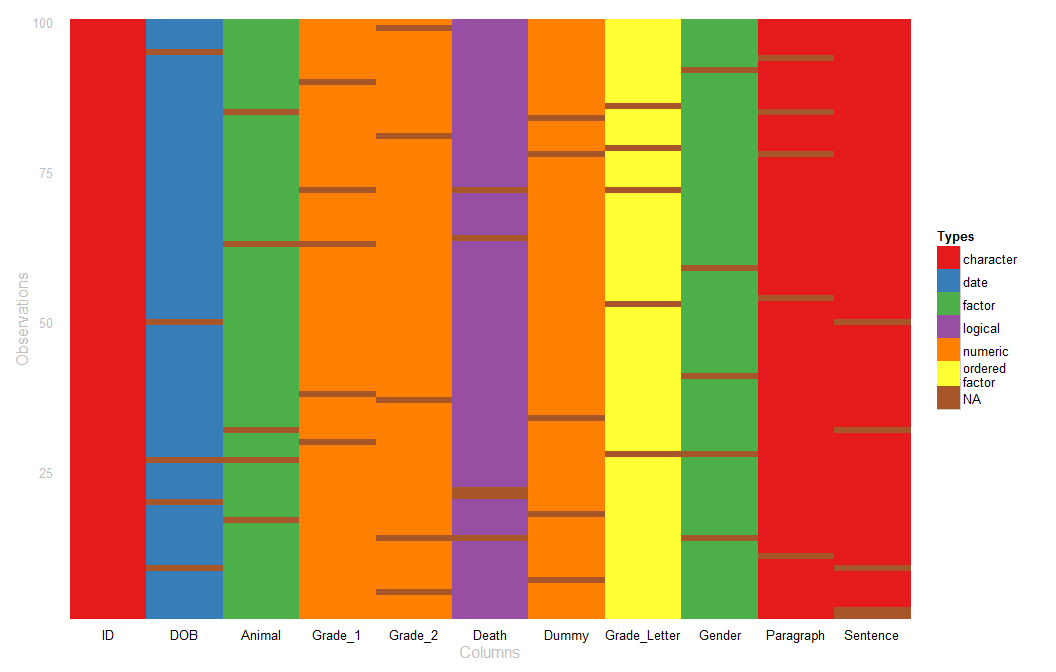
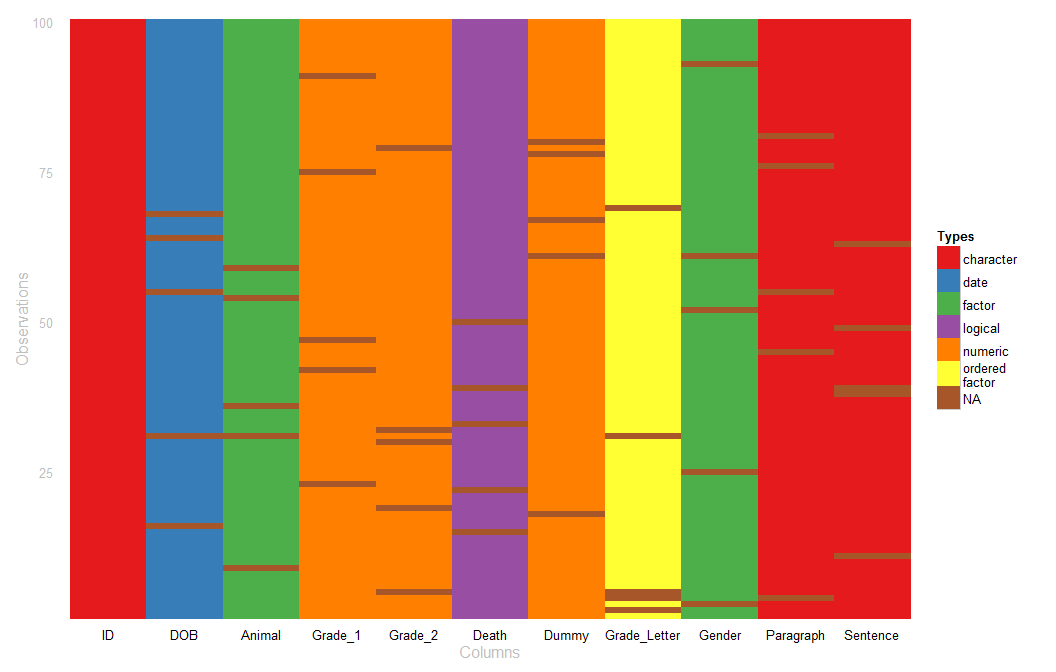
fixed error in README

diff --git a/README.md b/README.md
@@ -83,7 +83,8 @@ attribute. For example here we see the `race` variable function:
 
     race(n=10)
 
-    ##  [1] White Asian White White White White White White Black White
+    ##  [1] White     White     White     White     White     White     White    
+    ##  [8] Bi-Racial White     White    
     ## Levels: White Hispanic Black Asian Bi-Racial Native Other Hawaiian
 
     attributes(race(n=10))
@@ -112,13 +113,13 @@ variable functions but is set once in `r_data_frame`:
     ##        Race
     ## 1     White
     ## 2     White
-    ## 3    Native
-    ## 4     White
+    ## 3  Hispanic
+    ## 4     Black
     ## 5     White
     ## 6  Hispanic
-    ## 7     White
-    ## 8     Asian
-    ## 9     White
+    ## 7  Hispanic
+    ## 8     White
+    ## 9  Hispanic
     ## 10    White
     ## ..      ...
 
@@ -139,24 +140,24 @@ variable functions:
 
     ## Source: local data frame [500 x 8]
     ## 
-    ##     ID  Race Age    Sex     Hour  IQ Height  Died
-    ## 1  001 Black  29 Female 00:00:00 103     70  TRUE
-    ## 2  002 White  32   Male 00:00:00  91     64 FALSE
-    ## 3  003 White  26 Female 00:00:00 106     71  TRUE
-    ## 4  004 White  27   Male 00:00:00  81     74  TRUE
-    ## 5  005 Black  26 Female 00:00:00  97     67 FALSE
-    ## 6  006 White  26 Female 00:00:00  93     65 FALSE
-    ## 7  007 White  34 Female 00:00:00 109     66 FALSE
-    ## 8  008 White  32   Male 00:00:00  97     64 FALSE
-    ## 9  009 White  25 Female 00:00:00  90     74  TRUE
-    ## 10 010 White  35 Female 00:00:00 111     69 FALSE
-    ## .. ...   ... ...    ...      ... ...    ...   ...
+    ##     ID      Race Age    Sex     Hour  IQ Height  Died
+    ## 1  001     Asian  34 Female 00:00:00 102     67  TRUE
+    ## 2  002  Hispanic  23 Female 00:00:00 107     65 FALSE
+    ## 3  003     White  23   Male 00:00:00  99     71  TRUE
+    ## 4  004  Hispanic  27   Male 00:00:00  99     66 FALSE
+    ## 5  005     White  27 Female 00:00:00  86     67  TRUE
+    ## 6  006 Bi-Racial  21   Male 00:00:00  96     73 FALSE
+    ## 7  007     White  22 Female 00:00:00  80     71 FALSE
+    ## 8  008     White  23 Female 00:00:00 107     71  TRUE
+    ## 9  009  Hispanic  34 Female 00:00:00  92     67  TRUE
+    ## 10 010     White  30   Male 00:00:00 107     68 FALSE
+    ## .. ...       ... ...    ...      ... ...    ...   ...
 
 There are 68 **wakefield** based variable functions to chose from,
 spanning **R**'s various data types (see `?variables` for details).
 
 <!-- html table generated in R 3.2.0 by xtable 1.7-4 package -->
-<!-- Sat May 09 10:46:57 2015 -->
+<!-- Sun May 31 19:20:35 2015 -->
 <table>
 <tr>
 <td>
@@ -400,7 +401,7 @@ speed_kph
 </p>
 However, the user may also pass their own vector producing functions or
 vectors to `r_data_frame`. Those with an `n` argument can be set by
-`r_data_table`:
+`r_data_frame`:
 
     r_data_frame(
         n = 500,
@@ -418,18 +419,18 @@ vectors to `r_data_frame`. Those with an `n` argument can be set by
 
     ## Source: local data frame [500 x 10]
     ## 
-    ##     ID      Scoring Smoker  Race Age    Sex     Hour  IQ Height  Died
-    ## 1  001 -0.364005943  FALSE White  27 Female 00:00:00 121     64 FALSE
-    ## 2  002 -0.464942023   TRUE White  25   Male 00:00:00 111     68 FALSE
-    ## 3  003  1.241043122  FALSE White  22   Male 00:00:00 102     77 FALSE
-    ## 4  004  1.126744406   TRUE White  26   Male 00:00:00 111     70  TRUE
-    ## 5  005  0.002319571   TRUE Black  25   Male 00:00:00  90     73  TRUE
-    ## 6  006  0.786658401  FALSE White  33   Male 00:00:00 116     69 FALSE
-    ## 7  007  0.344566578   TRUE White  22   Male 00:00:00 103     70 FALSE
-    ## 8  008 -0.936047763   TRUE White  26 Female 00:30:00 107     67 FALSE
-    ## 9  009 -1.093695917   TRUE White  31   Male 00:30:00  96     70 FALSE
-    ## 10 010 -1.183484566  FALSE White  35   Male 00:30:00  82     67  TRUE
-    ## .. ...          ...    ...   ... ...    ...      ... ...    ...   ...
+    ##     ID     Scoring Smoker     Race Age    Sex     Hour  IQ Height  Died
+    ## 1  001  1.17592556  FALSE    White  24 Female 00:00:00  90     65  TRUE
+    ## 2  002 -0.30643701  FALSE    White  27 Female 00:00:00 102     72  TRUE
+    ## 3  003 -0.02783137   TRUE    White  28   Male 00:00:00  99     58  TRUE
+    ## 4  004  0.57867991   TRUE    White  20   Male 00:00:00 104     73  TRUE
+    ## 5  005 -0.19702705  FALSE    White  26   Male 00:00:00  96     68  TRUE
+    ## 6  006 -1.24147959  FALSE    White  29   Male 00:00:00 101     66  TRUE
+    ## 7  007  0.13607452   TRUE    White  33   Male 00:00:00  94     73 FALSE
+    ## 8  008 -0.09871101  FALSE    Black  21   Male 00:00:00 114     68  TRUE
+    ## 9  009 -0.88559545  FALSE    White  35 Female 00:00:00 114     61  TRUE
+    ## 10 010 -1.78321821   TRUE Hispanic  34 Female 00:30:00  85     62  TRUE
+    ## .. ...         ...    ...      ... ...    ...      ... ...    ...   ...
 
     r_data_frame(
         n = 500,
@@ -441,16 +442,16 @@ vectors to `r_data_frame`. Those with an `n` argument can be set by
     ## Source: local data frame [500 x 7]
     ## 
     ##     ID Age_1 Age_2 Age_3 Grade_1 Grade_2 Grade_3
-    ## 1  001    35    23    28    87.1    80.5    88.0
-    ## 2  002    27    28    29    85.9    87.8    94.1
-    ## 3  003    30    24    23    82.4    92.1    98.3
-    ## 4  004    30    31    21    88.2    88.2    86.1
-    ## 5  005    20    26    30    96.2   100.0    91.5
-    ## 6  006    26    26    25    99.7    90.9    89.8
-    ## 7  007    31    30    34    91.0    87.4    83.6
-    ## 8  008    33    31    35    87.9    84.4    91.9
-    ## 9  009    28    23    26    85.0    85.0    92.1
-    ## 10 010    34    20    31    84.2    94.4    91.7
+    ## 1  001    28    23    21    89.2    86.2    90.8
+    ## 2  002    22    28    32    80.9    93.5    84.5
+    ## 3  003    33    29    28    87.8    81.7    87.7
+    ## 4  004    23    29    25    84.7    89.8    88.2
+    ## 5  005    23    26    26    86.3    89.1    88.8
+    ## 6  006    30    29    20    91.5    84.3    87.2
+    ## 7  007    25    23    30    94.1    88.0    90.3
+    ## 8  008    28    28    25    89.1    84.7    90.9
+    ## 9  009    23    27    26    89.1    83.3    89.3
+    ## 10 010    23    34    24    90.0    84.9    91.3
     ## .. ...   ...   ...   ...     ...     ...     ...
 
 While, passing variable functions to `r_data_frame` without call
@@ -475,18 +476,18 @@ done through call parenthesis as we do with `data.frame` or
 
     ## Source: local data frame [500 x 11]
     ## 
-    ##     ID     Scoring Smoker Reading(mins)     Race Age    Sex     Hour  IQ
-    ## 1  001 -0.12979822   TRUE            22    White  11 Female 00:00:00  91
-    ## 2  002 -0.33275397  FALSE            20    White  14   Male 00:00:00 107
-    ## 3  003 -0.21521792  FALSE            19    White  12 Female 00:00:00  99
-    ## 4  004  0.09424196  FALSE            16    White  14 Female 00:00:00 118
-    ## 5  005  0.11493567  FALSE            18 Hawaiian  12   Male 00:00:00 103
-    ## 6  006 -0.71432297  FALSE            23    White  11   Male 00:00:00  94
-    ## 7  007  0.15202735   TRUE            13 Hispanic   9   Male 00:00:00  82
-    ## 8  008  0.68825383   TRUE            23    White  12 Female 00:00:00 102
-    ## 9  009  0.02991237  FALSE            19    White  11   Male 00:00:00  85
-    ## 10 010 -1.52773256  FALSE            24 Hispanic  12 Female 00:00:00 109
-    ## .. ...         ...    ...           ...      ... ...    ...      ... ...
+    ##     ID    Scoring Smoker Reading(mins)     Race Age    Sex     Hour  IQ
+    ## 1  001 -1.5745664  FALSE            20    Black   8 Female 00:00:00  97
+    ## 2  002  0.3025490   TRUE            24    White  11 Female 00:00:00  95
+    ## 3  003 -0.8711022  FALSE            18 Hispanic  14   Male 00:00:00 118
+    ## 4  004  0.2997796  FALSE            19    Black  11 Female 00:00:00 118
+    ## 5  005  0.1298523  FALSE            15    White  10   Male 00:00:00 102
+    ## 6  006  0.1194844  FALSE            25    White  10   Male 00:00:00  99
+    ## 7  007 -0.3739184   TRUE            30    Black   9   Male 00:00:00 114
+    ## 8  008  0.1176107  FALSE            23    White   8   Male 00:00:00 114
+    ## 9  009 -0.6876055  FALSE            21    White  14   Male 00:00:00 100
+    ## 10 010  0.5308449  FALSE            20    White  14 Female 00:00:00  86
+    ## .. ...        ...    ...           ...      ... ...    ...      ... ...
     ## Variables not shown: Height (dbl), Died (lgl)
 
 Random Missing Observations
@@ -514,18 +515,18 @@ pipeline:
 
     ## Source: local data frame [30 x 10]
     ## 
-    ##    ID      Race Age    Sex     Hour  IQ Height  Died      Scoring Smoker
-    ## 1  01     Black  NA   Male     <NA>  90     73  TRUE  0.005441316   TRUE
-    ## 2  02        NA  35 Female 00:30:00  NA     NA FALSE -0.148681926     NA
-    ## 3  03     White  32 Female 00:30:00  NA     75 FALSE           NA     NA
-    ## 4  04        NA  NA   Male 01:30:00 110     NA FALSE -1.646999809  FALSE
-    ## 5  05        NA  NA     NA     <NA>  NA     NA    NA  0.212609667  FALSE
-    ## 6  06 Bi-Racial  26     NA 02:30:00 110     NA    NA  1.510801730  FALSE
-    ## 7  07        NA  NA Female     <NA>  NA     73    NA  0.599271767   TRUE
-    ## 8  08  Hispanic  32     NA     <NA>  93     65 FALSE -1.839609849   TRUE
-    ## 9  09  Hispanic  NA     NA 06:00:00 107     68  TRUE  0.915495264     NA
-    ## 10 10        NA  25     NA     <NA> 101     69  TRUE           NA     NA
-    ## .. ..       ... ...    ...      ... ...    ...   ...          ...    ...
+    ##    ID  Race Age    Sex     Hour  IQ Height  Died     Scoring Smoker
+    ## 1  01    NA  24 Female 00:00:00  NA     NA  TRUE  2.26125355  FALSE
+    ## 2  02    NA  35 Female 00:00:00  NA     NA FALSE          NA  FALSE
+    ## 3  03 White  NA     NA 01:00:00 114     70  TRUE -0.19904207  FALSE
+    ## 4  04 White  NA   Male 03:00:00 116     73    NA  0.07853716     NA
+    ## 5  05 White  24   Male 04:00:00  NA     73    NA  1.56951492     NA
+    ## 6  06    NA  NA     NA 04:00:00 104     71 FALSE          NA     NA
+    ## 7  07    NA  NA Female 04:30:00  NA     NA    NA  1.16139254   TRUE
+    ## 8  08 White  21 Female     <NA> 105     75 FALSE          NA   TRUE
+    ## 9  09    NA  31     NA     <NA> 108     70    NA          NA  FALSE
+    ## 10 10 White  21   Male 07:00:00 111     NA    NA -0.18888644     NA
+    ## .. ..   ... ...    ...      ... ...    ...   ...         ...    ...
 
 Repeated Measures & Time Series
 -------------------------------
